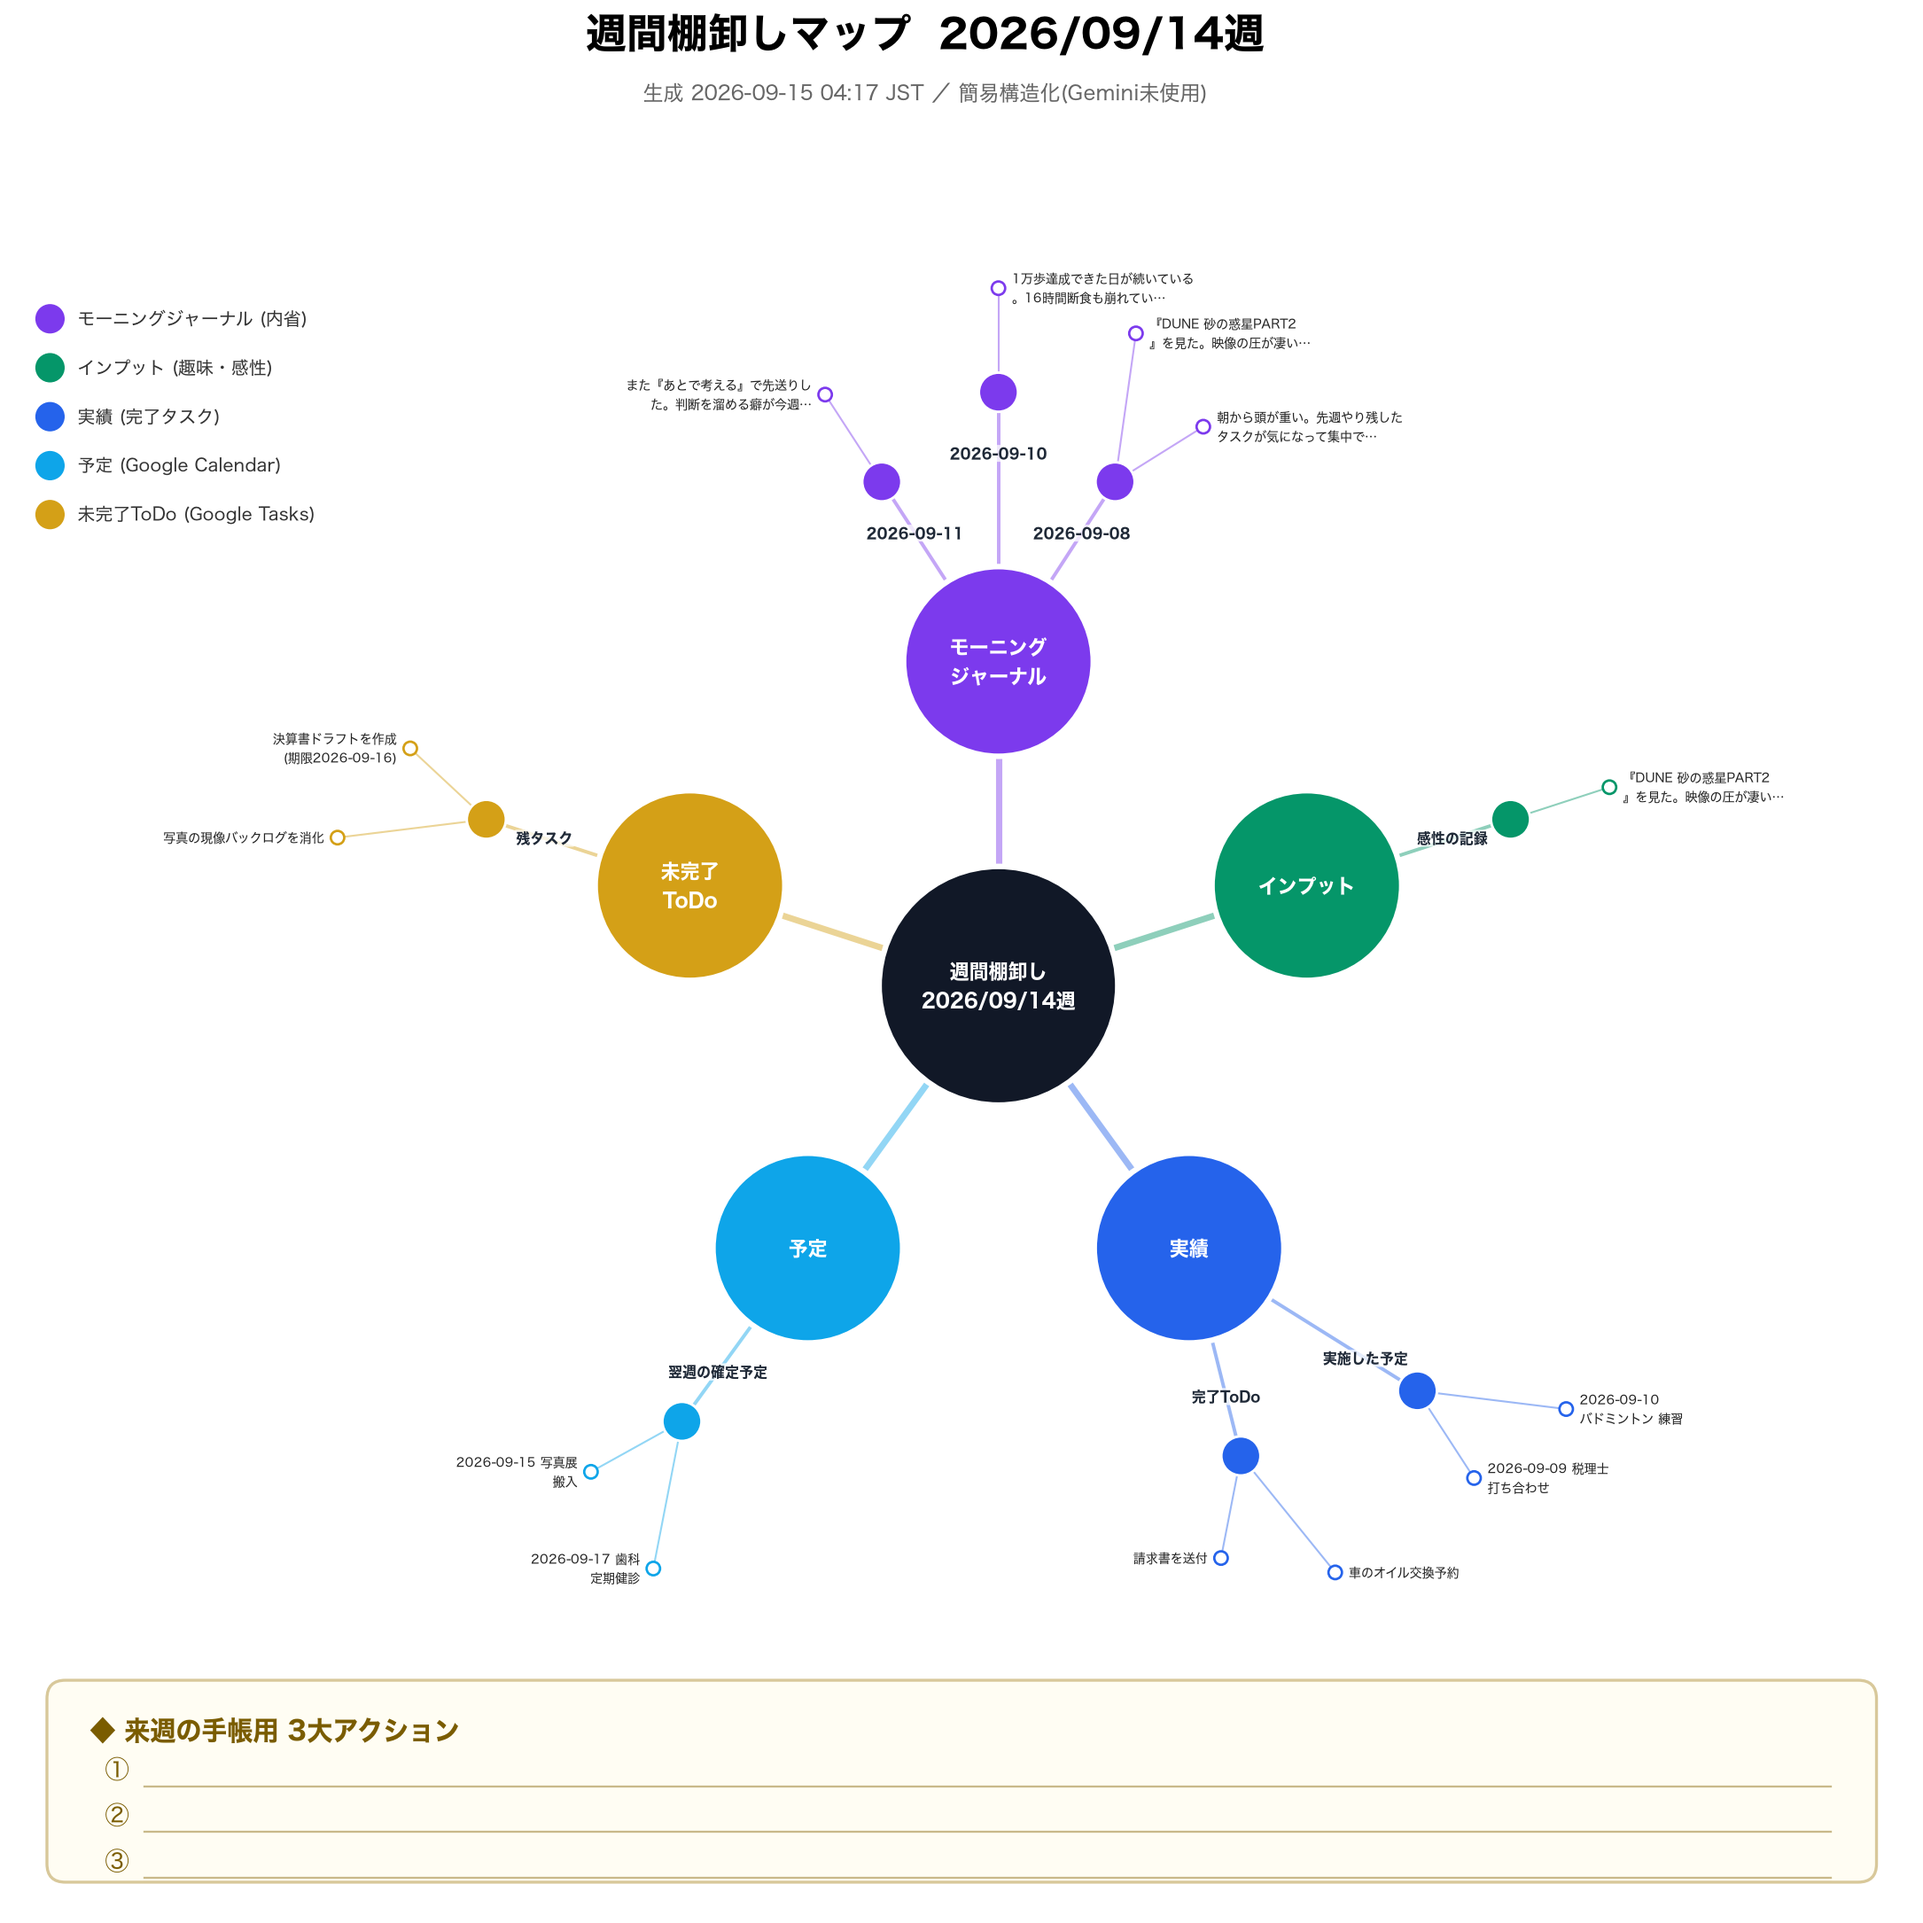
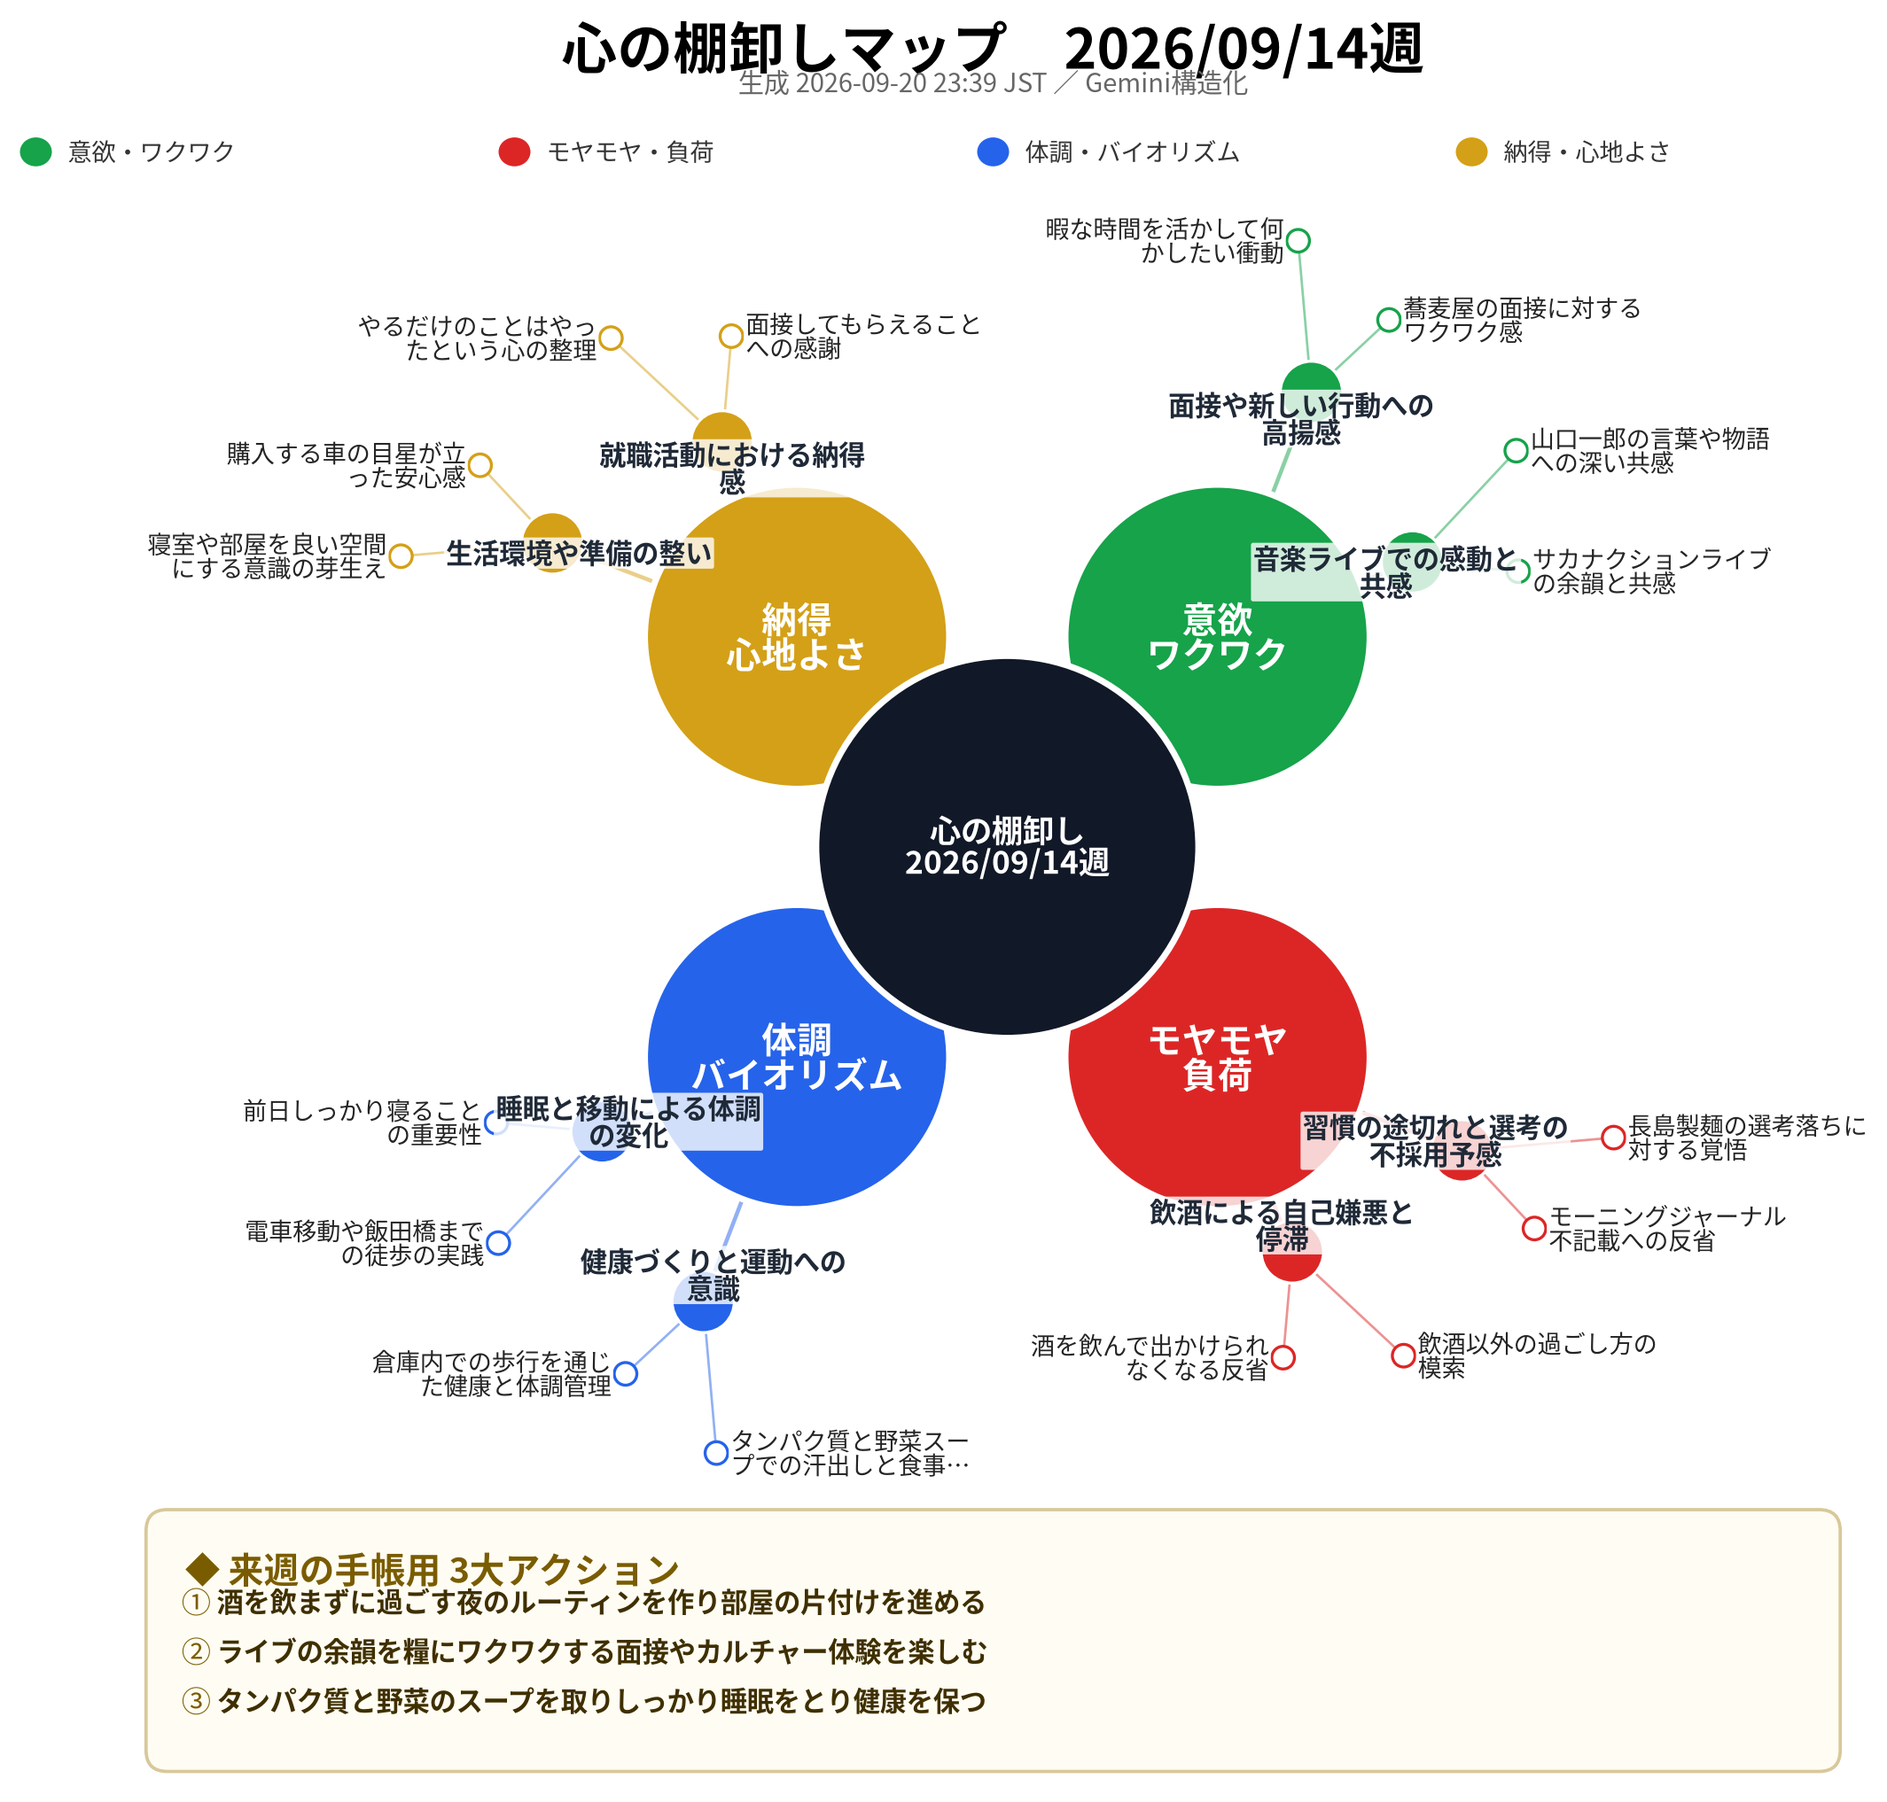
週次棚卸しマインドマップ（行データ + 常設ページ）を自動生成 (2026-09-20)

diff --git a/mindmap/archive/2026_W38.html b/mindmap/archive/2026_W38.html
@@ -3,7 +3,7 @@
 <head>
 <meta charset="UTF-8">
 <meta name="viewport" content="width=device-width, initial-scale=1.0">
-<title>週間棚卸しマップ 2026/09/14週（アーカイブ）</title>
+<title>心の棚卸しマップ 2026/09/14週（アーカイブ）</title>
 <style>
   :root { color-scheme: light dark; }
   body { margin:0; padding:24px 16px 48px; font-family:-apple-system,BlinkMacSystemFont,"Segoe UI",Roboto,"Hiragino Sans",sans-serif; background:#f8fafc; color:#1e293b; }
@@ -23,11 +23,11 @@
 </head>
 <body>
 <div class="wrap">
-  <h1>🧠 週間棚卸しマップ　2026/09/14週</h1>
-  <div class="meta">生成: 2026-09-15 04:17 JST ／ 簡易構造化(Gemini未使用)</div>
+  <h1>🧠 心の棚卸しマップ　2026/09/14週</h1>
+  <div class="meta">生成: 2026-09-20 23:39 JST ／ Gemini構造化</div>
   <div class="nav"><a href="../index.html">← 最新の週へ</a><a href="index.html">📚 過去の週一覧</a></div>
-  
-  <img src="2026_W38.png" alt="週間棚卸しマインドマップ 2026/09/14週">
+  <div class="warn"><strong>⚠ 警告</strong><ul><li>Google 認証エラー：カレンダー/ToDo/シートを取得できませんでした。リフレッシュトークンの再発行が必要です（同意画面は本番公開に）。</li></ul></div>
+  <img src="2026_W38.png" alt="心の棚卸しマインドマップ 2026/09/14週">
   <div class="actions"></div>
 </div>
 </body>

diff --git a/mindmap/index.html b/mindmap/index.html
@@ -3,7 +3,7 @@
 <head>
 <meta charset="UTF-8">
 <meta name="viewport" content="width=device-width, initial-scale=1.0">
-<title>週間棚卸しマップ 2026/09/14週</title>
+<title>心の棚卸しマップ 2026/09/14週</title>
 <style>
   :root { color-scheme: light dark; }
   body { margin:0; padding:24px 16px 48px; font-family:-apple-system,BlinkMacSystemFont,"Segoe UI",Roboto,"Hiragino Sans",sans-serif; background:#f8fafc; color:#1e293b; }
@@ -23,11 +23,11 @@
 </head>
 <body>
 <div class="wrap">
-  <h1>🧠 週間棚卸しマップ　2026/09/14週</h1>
-  <div class="meta">生成: 2026-09-15 04:17 JST ／ 簡易構造化(Gemini未使用)</div>
+  <h1>🧠 心の棚卸しマップ　2026/09/14週</h1>
+  <div class="meta">生成: 2026-09-20 23:39 JST ／ Gemini構造化</div>
   <div class="nav"><a href="archive/index.html">📚 過去の週一覧</a></div>
-  
-  <img src="latest.png" alt="週間棚卸しマインドマップ 2026/09/14週">
+  <div class="warn"><strong>⚠ 警告</strong><ul><li>Google 認証エラー：カレンダー/ToDo/シートを取得できませんでした。リフレッシュトークンの再発行が必要です（同意画面は本番公開に）。</li></ul></div>
+  <img src="latest.png" alt="心の棚卸しマインドマップ 2026/09/14週">
   <div class="actions"></div>
 </div>
 </body>

diff --git a/mindmap/archive/index.html b/mindmap/archive/index.html
@@ -3,7 +3,7 @@
 <head>
 <meta charset="UTF-8">
 <meta name="viewport" content="width=device-width, initial-scale=1.0">
-<title>週間棚卸しマップ - 過去の週一覧</title>
+<title>心の棚卸しマップ - 過去の週一覧</title>
 <style>
   :root { color-scheme: light dark; }
   body { margin:0; padding:24px 16px 48px; font-family:-apple-system,BlinkMacSystemFont,"Segoe UI",Roboto,"Hiragino Sans",sans-serif; background:#f8fafc; color:#1e293b; }
@@ -21,8 +21,8 @@
 </head>
 <body>
 <div class="wrap">
-  <a class="back" href="../index.html">← 最新の週へ</a>
-  <h1>📚 週間棚卸しマップ - 過去の週一覧</h1>
+  <a class="back" href="../index.html">← 最新へ</a>
+  <h1>📚 心の棚卸しマップ - 過去の週一覧</h1>
   <ul><li><a href="2026_W38.html">2026_W38</a></li></ul>
 </div>
 </body>
